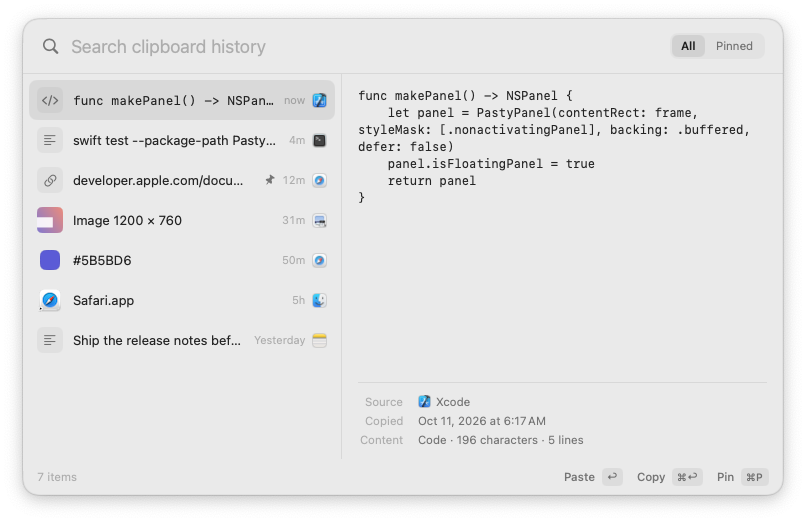
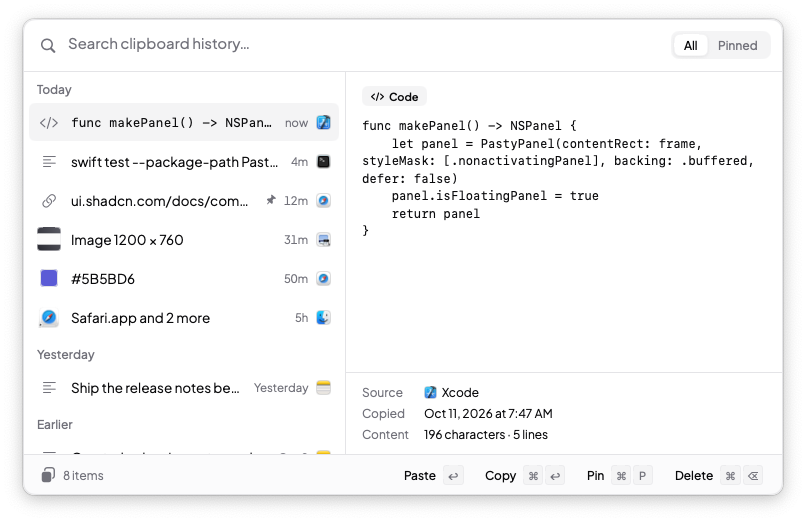
README: design system, font, edge-case test coverage, updated metrics and screenshots
Claude-Session: https://claude.ai/code/session_01Wge9khGVfCtPzdFDm52YsA

diff --git a/README.md b/README.md
@@ -6,15 +6,24 @@ A fast, quiet clipboard history manager for macOS. Pasty lives in the menu bar, 
 
 <p align="center">
   <img src="docs/panel-light.png" width="49%" alt="Pasty in light mode, previewing a code snippet">
-  <img src="docs/panel-dark.png" width="49%" alt="Pasty in dark mode, previewing a link">
+  <img src="docs/panel-dark.png" width="49%" alt="Pasty in dark mode, previewing a pinned link">
 </p>
 <p align="center">
-  <img src="docs/panel-search-dark.png" width="49%" alt="Searching with highlighted matches">
-  <img src="docs/panel-image-light.png" width="49%" alt="Image preview">
+  <img src="docs/panel-search-light.png" width="49%" alt="Searching with highlighted matches">
+  <img src="docs/panel-image-dark.png" width="49%" alt="Image preview">
+</p>
+<p align="center">
+  <img src="docs/settings-general-light.png" width="49%" alt="Settings, General pane">
+  <img src="docs/settings-privacy-dark.png" width="49%" alt="Settings, Privacy pane in dark mode">
+</p>
+<p align="center">
+  <img src="docs/empty-dark.png" width="49%" alt="Empty state">
+  <img src="docs/toast-dark.png" width="49%" alt="Toast shown when paste permission is missing">
 </p>
 <p align="center"><sub>Screenshots are captured automatically by the CI smoke test from the real app.</sub></p>
 
 - Native Swift 6, SwiftUI and AppKit. No web views, no third-party packages.
+- Designed with the [shadcn/ui](https://ui.shadcn.com) design system (zinc theme), rebuilt natively in SwiftUI, and set in [Plus Jakarta Sans](https://fonts.google.com/specimen/Plus+Jakarta+Sans).
 - Local-first. History is stored in SQLite on your Mac and never sent anywhere.
 - Keyboard-first. Every action has a key.
 
@@ -96,12 +105,15 @@ Pasty/                       App target (AppKit + SwiftUI)
   Panel/      PanelController (non-activating NSPanel, keyboard routing), PanelModel (@Observable state)
   Views/      PanelRootView (search, footer, empty states), ClipListView/ClipRow, PreviewPane
   Services/   PasteCoordinator, HotKeyManager (Carbon), HUDController, SystemServices (AX, ⌘V, icons)
-  Settings/   SettingsWindowController (toolbar tabs), SettingsViews (General / Clipboard / Privacy)
+  Settings/   SettingsWindowController (sidebar layout), SettingsViews (General / Clipboard / Privacy / About)
+  Design/     Theme (shadcn tokens, Plus Jakarta Sans), Components (Button, Switch, Tabs, Kbd, Badge, Card, Select, AlertDialog)
+  Resources/  Assets (app icon), Fonts (Plus Jakarta Sans + OFL license)
   Support/    SmokeTest (end-to-end self check used by CI)
 PastyCore/                   Swift package with no UI, fully unit-tested
   Storage/    ClipboardStore (actor; SQLite WAL + FTS5 trigram), SQLite (statement-caching wrapper)
   Capture/    ClipboardMonitor, PasteboardIO, ContentAnalyzer, PrivacyPolicy/SecretDetector
   Search/     SearchQuery, SearchRanker
+  Models/     ClipItem, PasteboardSnapshot, HistorySections (Today / Yesterday / …), HexColor, RelativeTime
   Settings/   Preferences (@Observable, UserDefaults-backed), KeyCombo
 ```
 
@@ -109,13 +121,19 @@ PastyCore/                   Swift package with no UI, fully unit-tested
 
 **Storage.** `ClipboardStore` is an actor that owns one SQLite connection: WAL, `synchronous=NORMAL`, incremental auto-vacuum, cached prepared statements. Representations are kept as blobs so an entry restores exactly as it was copied. List queries never touch blobs or long previews.
 
-**Search.** FTS5 with the trigram tokenizer gives case-insensitive substring matching. Terms shorter than three characters fall back to `LIKE`. Candidates are ranked in this order: exact → prefix → whole word → substring → all terms → deeper in content → metadata only. Pinned items get a small boost and recency breaks ties. Stale queries are discarded with a generation counter, so typing never blocks the UI.
+**Search.** FTS5 with the trigram tokenizer gives case-insensitive substring matching, including Unicode case folding ("école" finds "ÉCOLE"). Terms shorter than three characters fall back to `LIKE`, except non-ASCII ones ("é", "日本"), which are matched in Swift because SQLite's `LIKE` only folds ASCII. Candidates are ranked in this order: exact → prefix → whole word → substring → all terms → deeper in content → metadata only. Pinned items get a small boost and recency breaks ties. Stale queries are discarded with a generation counter, so typing never blocks the UI.
 
 **Paste.** The panel is a *non-activating* `NSPanel`, so it takes keyboard focus without activating Pasty, and the app you were using stays frontmost. Choosing an item works like this:
 1. Write the stored representations to the pasteboard on the monitor's queue. The monitor adopts the new change count, so Pasty never records its own write.
 2. Hide the panel.
-3. If the target app isn't frontmost (for example, you opened Pasty from the menu bar), activate it and wait for its activation notification. There is no fixed sleep.
+3. If the target app isn't frontmost (for example, you opened Pasty from the menu bar), activate it and wait for its activation notification. There is no fixed sleep. The check uses the frontmost application, not `NSApp.isActive`, which reads true whenever a non-activating panel is key.
 4. Post ⌘V with explicit modifier flags, so a held ⇧ can't turn it into "Paste and Match Style".
+
+**Design system.** shadcn/ui is a React library, so Pasty doesn't use its code. It reimplements its design language natively in `Pasty/Design`:
+- `Theme.swift`: shadcn's zinc color tokens (`background`, `foreground`, `muted`, `accent`, `border`, `ring`, `primary`, `destructive`…) as dynamic colors that follow Light/Dark, its radius scale, and its type scale.
+- `Components.swift`: `Button` (primary / secondary / outline / ghost / destructive / link, in sizes xs–md), `Switch`, `Tabs`, `Kbd`, `Badge`, `Card`, `Separator`, `Select`, `AlertDialog`, and a settings form row.
+
+The panel follows shadcn's Command pattern: an input, grouped results, and right-aligned shortcuts. Toasts follow Sonner. **Plus Jakarta Sans** (SIL Open Font License, Regular/Medium/SemiBold/Bold) is bundled in `Pasty/Resources/Fonts` and registered for the process at launch. If registration ever fails, every text style falls back to the system font. Code previews use SF Mono. System-drawn menus (the menu bar menu and right-click menus) keep the native look; the menu bar menu also uses the bundled font.
 
 **Global shortcut.** Carbon's `RegisterEventHotKey`. It needs no Accessibility or Input Monitoring permission. Registration conflicts are reported in Settings.
 
@@ -125,46 +143,59 @@ Measured on GitHub's `macos-15` runners (Apple Silicon VMs, so slower than a typ
 
 | Metric | Result |
 | --- | --- |
-| Panel open (warm, 30 cycles) | **5.0 ms median**, 7.8 ms p95 |
-| Panel first open after launch | 26 ms |
-| Search field focused on open | yes, verified |
+| Panel open (warm, 30 cycles) | **5.8 ms median**, 8.3 ms p95 |
+| Panel first open after launch | 24 ms |
+| Paste into TextEdit (choose item → ⌘V sent) | **~20 ms** |
 | Load full 10,000-item list | ~10 ms median |
-| Search, 10,000 items, single term | ~23–30 ms median (synthetic worst case: nearly every item matches) |
-| Search, 10,000 items, two terms | ~52 ms median (same worst case; real histories match far fewer items) |
-| Capture + thumbnail of a 5K screenshot | ~32 ms, off the main thread |
-| Copy → recorded in history | ~220 ms (the polling interval) |
-| Idle CPU (10 s sample) | 0.2 % |
-| Memory (physical footprint) | ~21 MB |
-| Paste into TextEdit via ⌘V | verified via the Accessibility API |
+| Search, 10,000 items, one term | ~30–37 ms median (synthetic worst case: nearly every item matches) |
+| Search, 10,000 items, two terms | ~61 ms median (same worst case; real histories match far fewer items) |
+| Capture + thumbnail of a 5K screenshot | ~31 ms, off the main thread |
+| Capture of 10 MB of text | ~220 ms, off the main thread |
+| Copy → recorded in history | ~230 ms (the polling interval) |
+| Idle CPU (10 s sample) | 0.04 % |
+| Memory (physical footprint) | ~34 MB |
+| 100 rapid open/close cycles | +6.5 MB, no leak trend |
 
 Techniques used: a pre-warmed panel rendered once off-screen at launch; `LazyVStack` with `Equatable` fixed-height rows; observation scoped so selection changes don't re-render the list content; thumbnails decoded at 160 px and cached; full images downsampled with ImageIO before display; prepared statements; and queries that skip blob columns.
 
 ## Testing
 
-`swift test --package-path PastyCore` covers:
-- **Change detection:** pre-existing content is ignored, each change is captured exactly once, rapid consecutive copies resolve to the latest, Pasty's own writes are ignored, copies made while paused are forgotten.
-- **Duplicates:** move-to-top, ignore-consecutive, keep-all.
-- **Retention:** the oldest unpinned items are trimmed and pinned items are never removed; clear with and without pinned items.
-- **Search:** case-insensitive, partial, multi-term, short queries, ranking order, recency ties, metadata and file names, special characters and FTS operators, highlight ranges.
-- **Persistence:** reopening the database, WAL mode, recovery from a corrupt file.
-- **Serialization:** byte-exact round trips of multi-item, multi-type snapshots; rich text (bold survives); multiple files; images with thumbnail and dimensions; a 5K screenshot; 5.4 MB of text.
-- **Privacy:** concealed, transient, auto-generated and legacy markers; excluded apps; images disabled; the secret heuristic; the size budget.
-- **Preferences:** defaults, persistence across instances, shortcut validation.
+**107 unit tests** (`swift test --package-path PastyCore`) cover:
+- **Change detection:** pre-existing content is ignored, each change is captured exactly once, rapid copies resolve to the latest, Pasty's own writes are ignored (even from an earlier session), paused copies are forgotten, a cleared pasteboard is skipped, rules change at runtime, the real timer captures and stops, and a restart picks up changes made while stopped (sleep/wake).
+- **Content:** empty and whitespace-only text; emoji, ZWJ sequences, combining marks, RTL, CJK; CRLF line endings; NUL bytes; invalid UTF-8; RTF-only and HTML-only content (scripts and styles stripped); PDF and app-private data (kept and restored verbatim); corrupt and TIFF-only images; tiny images; text-plus-image spreadsheet cells; URL edge cases (IDN, localhost, `javascript:`, multi-line); file names with spaces and accents; hex colors (including full-width digits); relative times (including future dates); date grouping.
+- **Storage:** duplicates (move-to-top, ignore-consecutive, keep-all, duplicate of a pinned item), retention (a zero limit, more pinned items than the limit), operations on missing IDs, 200 concurrent inserts, reads during writes, an 8 MB binary and empty blobs round-tripping byte-exact, reopening after clear and vacuum, corrupt-file recovery, WAL.
+- **Search:** ranking order, recency ties, metadata and file names, SQL-injection and FTS-syntax queries, a 10,000-character query, Unicode case folding, short non-ASCII terms, emoji, matches beyond the preview, highlight ranges with emoji and combining marks.
+- **Privacy:** concealed, transient, auto-generated and legacy markers; excluded apps; unknown sources; the secret heuristic; the size budget; promise and synthesized types.
+- **Preferences:** defaults, persistence, corrupt stored values, clamping, an emptied exclusion list.
 - **Benchmarks:** a 10,000-entry history.
 
-`scripts/smoke-test.sh` runs the built app against a throwaway database. It copies via the real general pasteboard, measures capture latency, makes 20 rapid copies, opens and closes the panel 30 times (checking timing and search-field focus), copies an entry back (checking an exact restore and no duplicate entry), and measures idle CPU over 10 s and memory footprint.
+**63 end-to-end checks** (`scripts/smoke-test.sh`) run against the built app on a throwaway database. With Accessibility granted, they drive real keystrokes through `CGEvent`:
+- Fonts are registered and used.
+- Panel placement is correct on six display layouts (negative coordinates, portrait, smaller than the panel).
+- Capture works, including 20 rapid copies with no duplicates.
+- 30 open/close cycles: timing, focus ready on open, panel is key, Pasty never becomes the frontmost app.
+- The list updates while the panel is open, and the selection holds.
+- Deleting selects the next item. The Pinned filter works, and unpinning updates it.
+- Search covers no results, whitespace-only queries, and case-insensitive grouped results. The selection clamps at both ends.
+- Copying an item back restores it exactly, creates no duplicate, and moves it to the top.
+- Pause and resume, and simulated sleep/wake.
+- The permission-denied path: it copies, reports failure, and shows a toast.
+- Typing goes into the search field. ↑/↓, Tab and Esc work.
+- The global shortcut opens and closes the panel.
+- Pasting into TextEdit keeps TextEdit frontmost. Paste as plain text works into a rich document.
+- 100-cycle stress and leak check.
+- Idle CPU stays under 1%.
+- 19 screenshots of every surface in both appearances.
 
 ### Manual validation (needs a person and permissions)
 
-These depend on the window server, other apps, or a human-granted Accessibility permission, so they are not automated:
+These need real hardware or system state that CI can't provide:
 
-1. **Paste into apps:** grant Accessibility, then paste with Return into TextEdit (rich text keeps its formatting), Terminal, Safari's address bar, Notes (an image), and Finder (a copied file).
-2. **Permission denied:** remove Pasty from Accessibility and press Return. You should see the "Copied — press ⌘V" HUD and the system prompt. ⌘V should then paste the item.
-3. **Focus:** open Pasty over a text field. The field's app must stay frontmost (its menu bar title doesn't change), and after pasting the caret continues where it was.
-4. **Full screen & Spaces:** open Pasty over a full-screen app and on another Space. It should appear over the current Space.
-5. **Multiple displays:** it should open on the display under the pointer.
-6. **Clipboard changes while open:** with the panel open, copy something with a mouse in another app. The list updates in place.
-7. **Sleep/wake:** sleep the Mac, wake it, copy, open Pasty. The new item is there.
-8. **Menu bar:** Pause/Resume (icon shows pause bars), hide the icon, then reopen Pasty from Finder to get Settings.
-9. **Launch at login:** toggle it in Settings and check **System Settings › General › Login Items**.
-10. **Appearance & accessibility:** Light/Dark/System, Increase Contrast, Reduce Motion (no fades), and VoiceOver (selection changes are announced).
+1. **Other target apps:** paste into Terminal, Safari's address bar, Notes (an image), Finder (a copied file), and TextEdit with formatting kept. CI only exercises TextEdit, with plain and plain-text paste.
+2. **Real permission denial:** remove Pasty from Accessibility and press Return. The system prompt should appear (CI simulates denial without the prompt).
+3. **Full screen & Spaces:** open Pasty over a full-screen app and on another Space.
+4. **Physical multiple displays:** placement math is tested on six layouts; confirm that the panel follows the pointer across real screens.
+5. **Real sleep/wake:** CI simulates the workspace notifications. Close the lid, reopen it, copy, and check the item appears.
+6. **Menu bar:** Pause/Resume (the icon shows pause bars), hide the icon, then reopen Pasty from Finder to get Settings.
+7. **Launch at login:** toggle it in Settings and check **System Settings › General › Login Items**.
+8. **Accessibility:** Reduce Motion (no fades) and VoiceOver (selection changes are announced).
